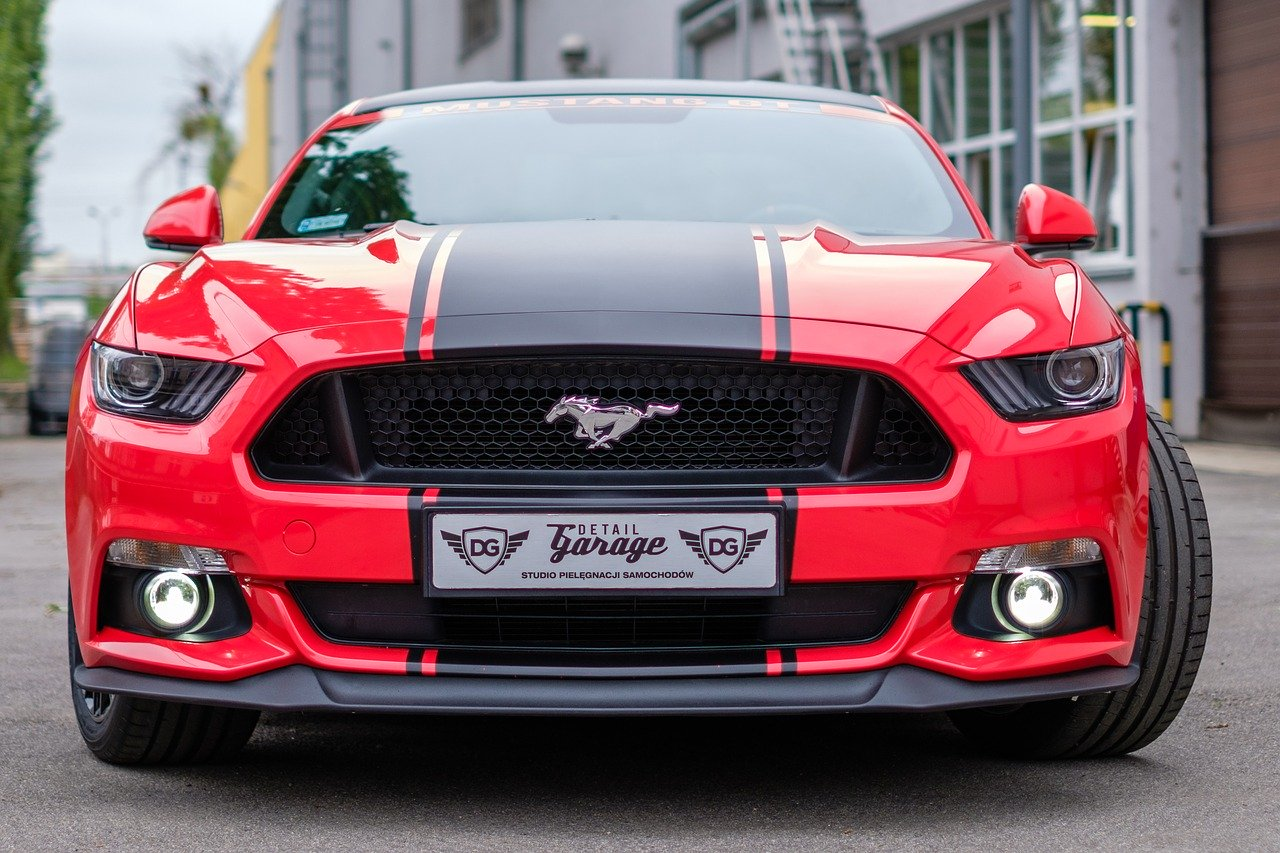
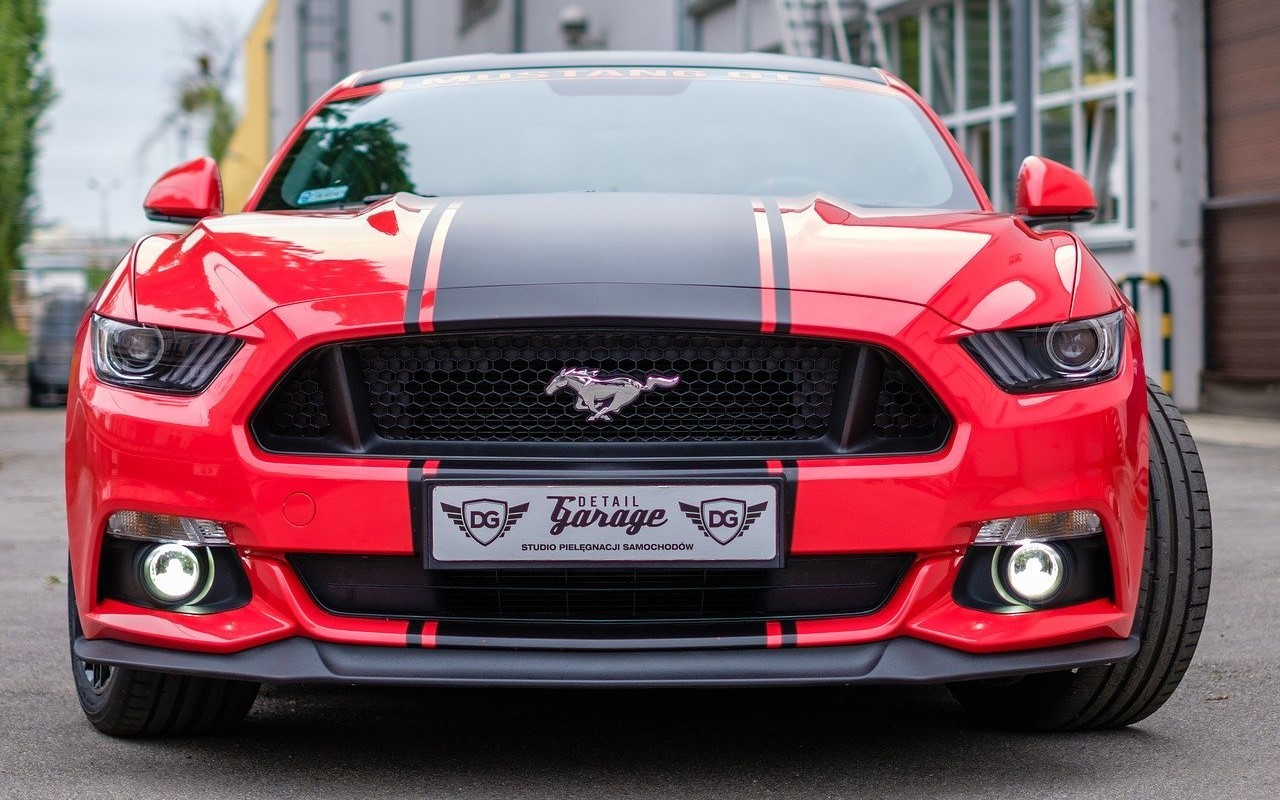
add img, change style - main.css

diff --git a/main.css b/main.css
@@ -6,7 +6,7 @@
 
 :root {
     --image-width: 1280px;
-    --height-proportion: calc(2/3 * 100%);
+    --height-proportion: calc(2/3.5 * 100%);
 }
 
 .slider {
@@ -66,8 +66,8 @@ img {
     flex: 0 0 auto;
     justify-content: space-around;
     align-items: center;
-    width: 50px;
-    height: 50px;
+    width: 40px;
+    height: 40px;
     background-color: rgba(255, 255, 255, 0.7);
     border-radius: 50%;
     box-shadow: 0 0 2px 0 black;
